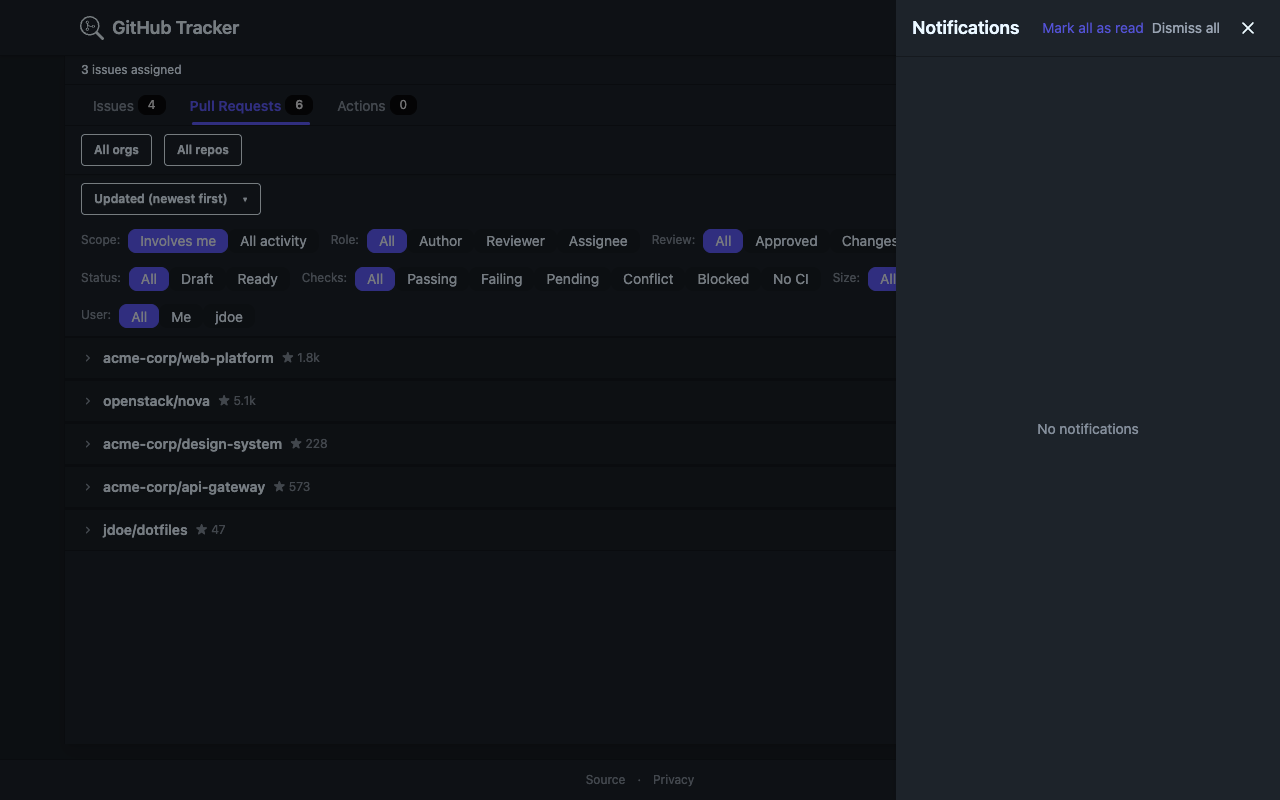
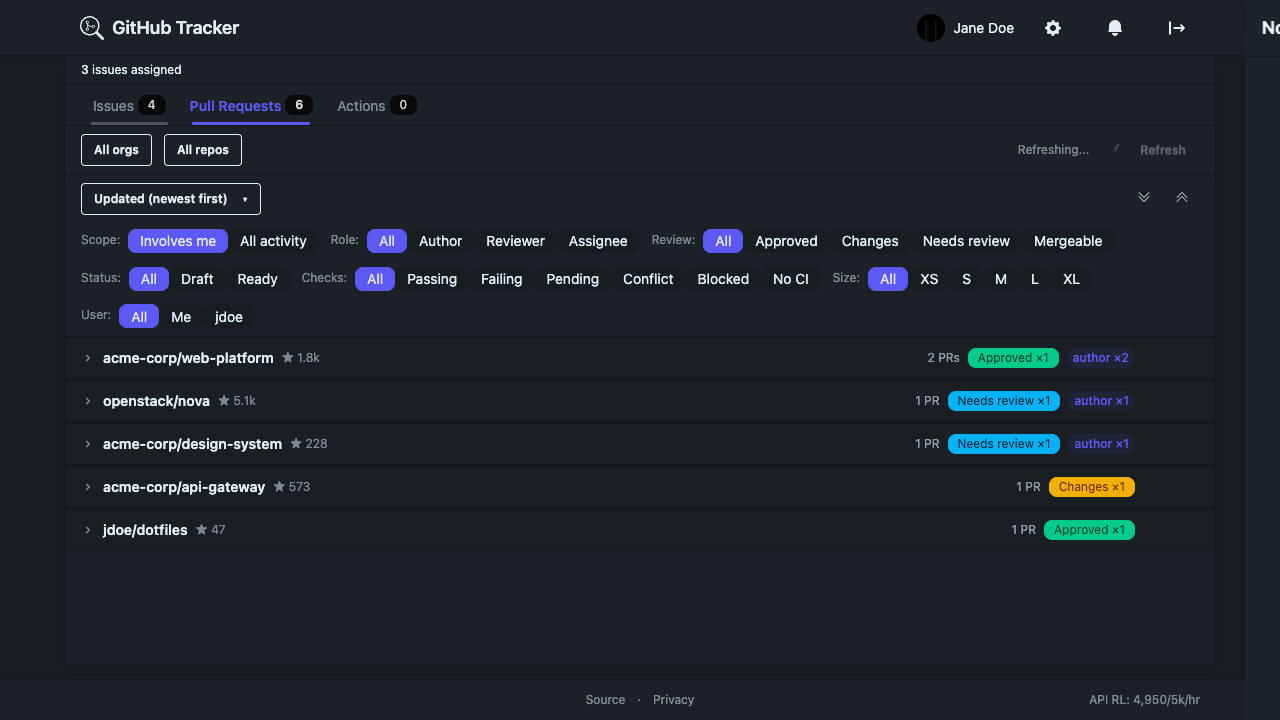
fix: addresses review findings in screenshot spec and README

diff --git a/e2e/capture-screenshot.spec.ts b/e2e/capture-screenshot.spec.ts
@@ -339,6 +339,8 @@ const workflowRunsResponse = {
 test("capture dashboard screenshot", async ({ page }) => {
   // 1a. Seed localStorage before any navigation
   await page.addInitScript(() => {
+    // Clear any stale view state (e.g. notification drawer open from a previous run)
+    localStorage.removeItem("github-tracker:view");
     localStorage.setItem("github-tracker:auth-token", "ghu_fake_screenshot_token");
     localStorage.setItem(
       "github-tracker:config",
@@ -368,12 +370,9 @@ test("capture dashboard screenshot", async ({ page }) => {
 
   // 1b. Mock all GitHub API routes before navigation.
   // Routes are matched in reverse registration order (last registered = highest priority).
-  // Register the catch-all first so specific routes take priority.
-  await page.route("https://api.github.com/**", (route) => {
-    // Allow requests to fall through to more-specific handlers registered after this one.
-    // If nothing else matched, fulfill with an empty 200 to prevent hangs.
-    return route.fulfill({ status: 200, json: {} });
-  });
+  // Register the catch-all FIRST so specific routes registered after it take priority.
+  // The catch-all aborts unmocked requests so they fail loudly instead of silently succeeding.
+  await page.route("https://api.github.com/**", (route) => route.abort());
 
   await page.route("https://api.github.com/notifications*", (route) =>
     route.fulfill({ status: 200, json: [] })
@@ -391,8 +390,8 @@ test("capture dashboard screenshot", async ({ page }) => {
     const query = body?.query ?? "";
     const variables = body?.variables ?? {};
 
-    // Heavy backfill: nodes(ids: [...])
-    if (query.includes("nodes(ids:") || "ids" in variables) {
+    // Heavy backfill: nodes(ids: [...]) — detected by query string content
+    if (query.includes("nodes(ids:")) {
       return route.fulfill({
         status: 200,
         json: {
@@ -442,7 +441,7 @@ test("capture dashboard screenshot", async ({ page }) => {
     });
   });
 
-  // /user is registered last so it has highest priority (matched before the catch-all)
+  // /user registered last so it has the highest priority (matched before the catch-all)
   await page.route("https://api.github.com/user", (route) =>
     route.fulfill({
       status: 200,
@@ -458,19 +457,18 @@ test("capture dashboard screenshot", async ({ page }) => {
   // 1c. Navigate and capture
   await page.goto("/dashboard");
   await page.getByRole("tablist").waitFor();
-  await page.waitForTimeout(1500);
+  await page.waitForLoadState("networkidle");
 
   // Switch to Pull Requests tab for a richer screenshot
   await page.getByRole("tab", { name: /pull requests/i }).click();
-  await page.waitForTimeout(500);
+  await page.getByRole("tab", { name: /pull requests/i, selected: true }).waitFor();
 
   // Expand the first collapsed repo group by clicking its header button
   const firstCollapsedGroup = page.getByRole("button", { expanded: false }).first();
   if (await firstCollapsedGroup.isVisible()) {
     await firstCollapsedGroup.click();
-    await page.waitForTimeout(500);
+    await firstCollapsedGroup.waitFor({ state: "detached" }).catch(() => undefined);
   }
 
-  await page.setViewportSize({ width: 1280, height: 800 });
   await page.screenshot({ path: "public/assets/dashboard-screenshot.png" });
 });

diff --git a/README.md b/README.md
@@ -117,8 +117,8 @@ src/
       view.ts       # View state (tabs, sorting, filters, ignored items, locked repos)
   worker/
     index.ts        # OAuth token exchange endpoint, CORS, security headers
-tests/              # 1256 unit/component tests across 63 test files
-e2e/                # 10 Playwright specs
+tests/              # 1522 unit/component tests across 69 test files
+e2e/                # 12 E2E tests across 3 spec files
 ```
 
 ## Development
